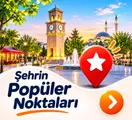
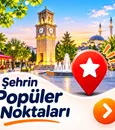
Resize Keşfet tiles to 115x130 for phone width.
Update CSS/HTML to 115×130 with 8px gaps and re-export cover-cropped 1x/2x WebP and JPG from source PNGs.

diff --git a/index.html b/index.html
@@ -304,7 +304,7 @@
                 type="image/webp"
                 srcset="assets/kesfet/sehrin-populer-noktalari-1x.webp 1x, assets/kesfet/sehrin-populer-noktalari.webp 2x"
               />
-              <img class="kesfet-tile" src="assets/kesfet/sehrin-populer-noktalari.jpg" alt="Şehrin Popüler Noktaları" width="132" height="120" />
+              <img class="kesfet-tile" src="assets/kesfet/sehrin-populer-noktalari.jpg" alt="Şehrin Popüler Noktaları" width="115" height="130" />
             </picture>
           </a>
           <a class="kesfet-tile-card" href="#tarihi-mekanlar" aria-label="Tarihi Mekanlar">
@@ -313,7 +313,7 @@
                 type="image/webp"
                 srcset="assets/kesfet/tarihi-mekanlar-1x.webp 1x, assets/kesfet/tarihi-mekanlar.webp 2x"
               />
-              <img class="kesfet-tile" src="assets/kesfet/tarihi-mekanlar.jpg" alt="Tarihi Mekanlar" width="132" height="120" />
+              <img class="kesfet-tile" src="assets/kesfet/tarihi-mekanlar.jpg" alt="Tarihi Mekanlar" width="115" height="130" />
             </picture>
           </a>
           <a class="kesfet-tile-card" href="#gezilecek-yerler" aria-label="Gezilecek Yerler">
@@ -322,7 +322,7 @@
                 type="image/webp"
                 srcset="assets/kesfet/gezilecek-yerler-1x.webp 1x, assets/kesfet/gezilecek-yerler.webp 2x"
               />
-              <img class="kesfet-tile" src="assets/kesfet/gezilecek-yerler.jpg" alt="Gezilecek Yerler" width="132" height="120" />
+              <img class="kesfet-tile" src="assets/kesfet/gezilecek-yerler.jpg" alt="Gezilecek Yerler" width="115" height="130" />
             </picture>
           </a>
         </div>

diff --git a/styles.css b/styles.css
@@ -534,22 +534,22 @@ img {
   border-radius: calc(var(--radius-md) - 3px);
 }
 
-/* Keşfet — 3 tiles exactly 132×120; gap 8px (navy frame via shared rule) */
+/* Keşfet — 3 tiles exactly 115×130; gap 8px (navy frame via shared rule) */
 .kesfet-row {
   display: flex;
   justify-content: space-between;
   gap: 8px;
-  width: calc(3 * 132px + 2 * 8px); /* 412 */
+  width: calc(3 * 115px + 2 * 8px); /* 345 */
   max-width: none;
-  margin-left: calc((100% - (3 * 132px + 2 * 8px)) / 2);
+  margin-left: calc((100% - (3 * 115px + 2 * 8px)) / 2);
 }
 
 .kesfet-tile-card {
   display: grid;
-  flex: 0 0 132px;
-  width: 132px;
-  height: 120px;
-  min-width: 132px;
+  flex: 0 0 115px;
+  width: 115px;
+  height: 130px;
+  min-width: 115px;
   border-radius: 14px;
   box-shadow: var(--shadow-card);
   overflow: hidden;
